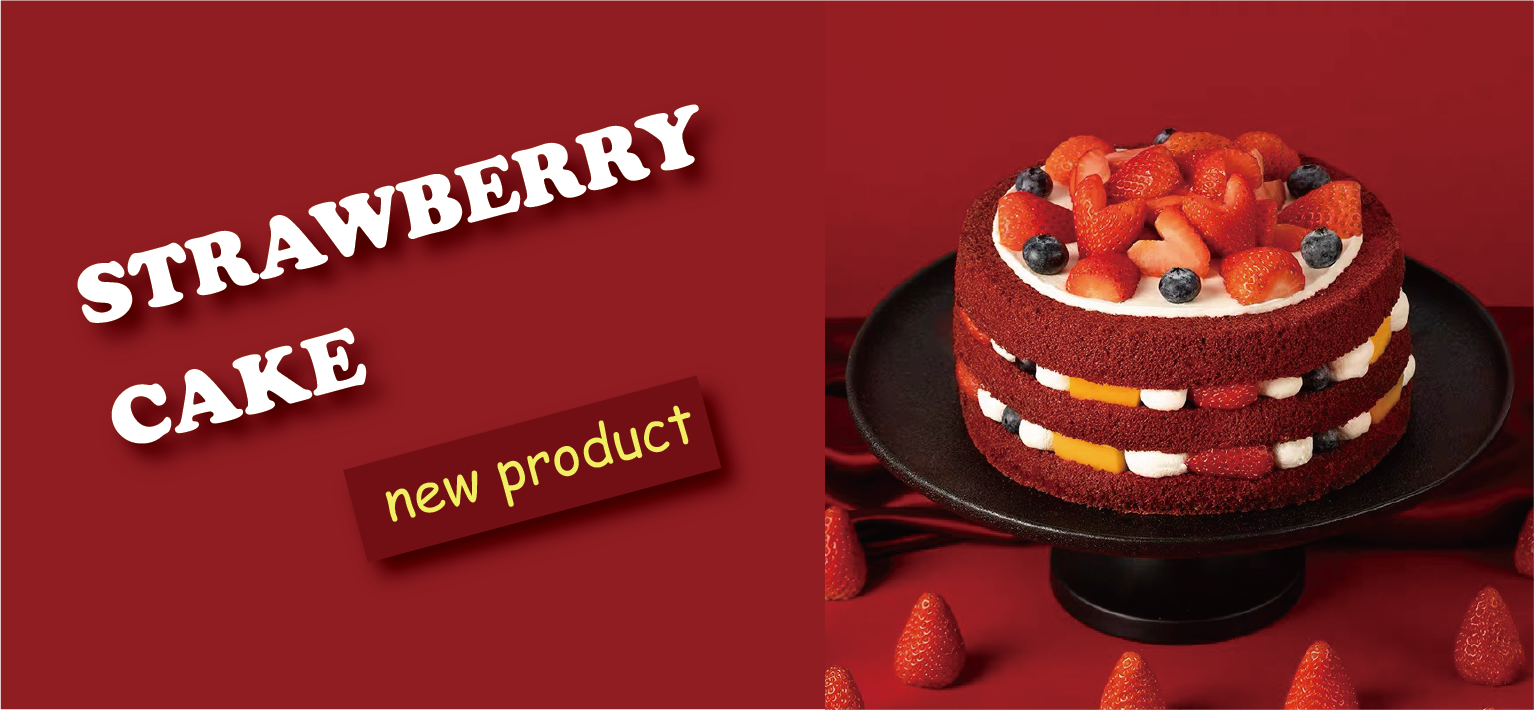
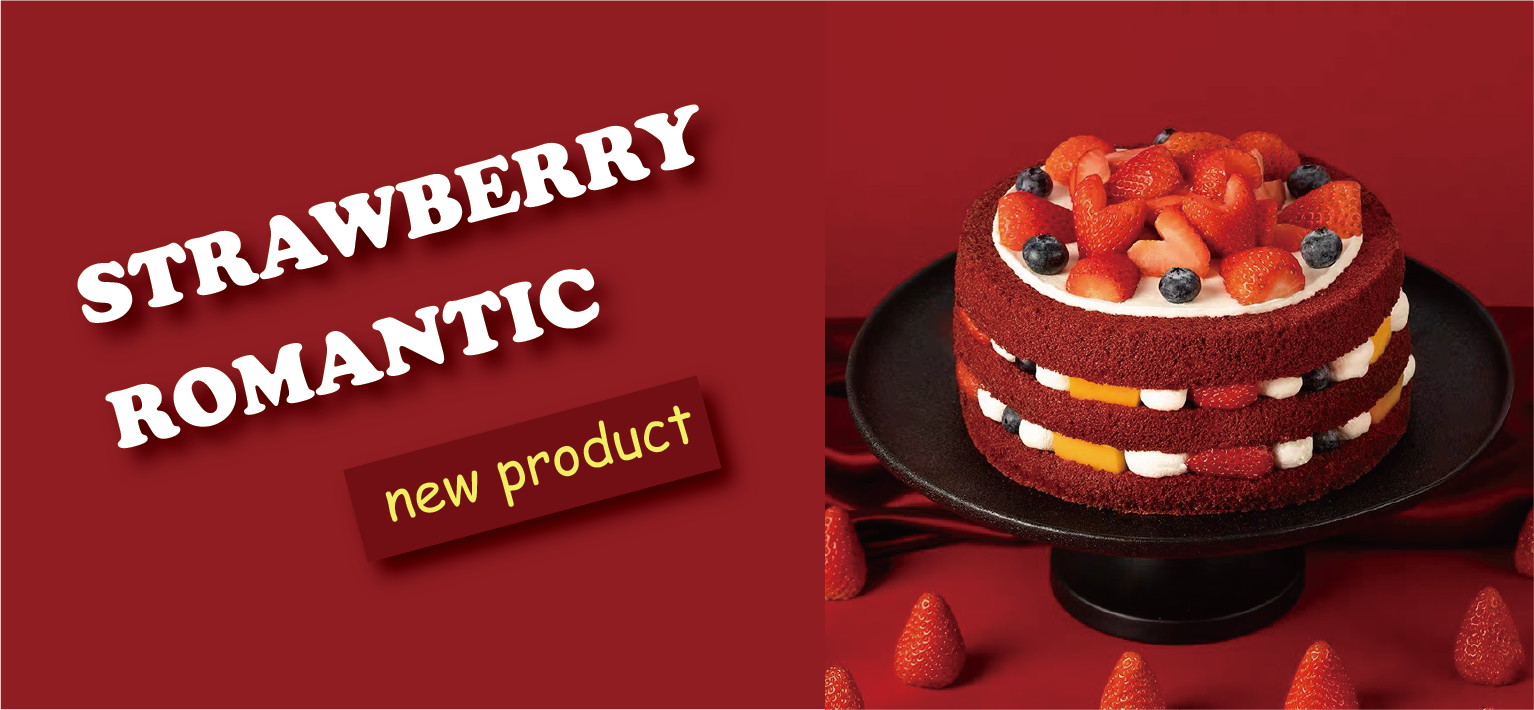
Edit index css and html

Changed region(s): [[0.0613, 0.3718, 0.3983, 0.6507]]

diff --git a/css/index.css b/css/index.css
@@ -1,7 +1,7 @@
-* {
+/* * {
   box-sizing: border-box;
   border: 1px solid pink;
-}
+} */
 
 /* body{
   background-color: #EDD5D2;
@@ -44,76 +44,92 @@ max-width: 100%;
 }
 
 .carousel-control {
-background: rgba(185, 149, 146, 0.28);
-border-radius: 50%;
-color: #fff;
-cursor: pointer;
-display: none;
-font-size: 40px;
-height: 40px;
-line-height: 35px;
-position: absolute;
-top: 50%;
--webkit-transform: translate(0, -50%);
-cursor: pointer;
--ms-transform: translate(0, -50%);
-transform: translate(0, -50%);
-text-align: center;
-width: 40px;
-z-index: 10;
+  background: rgba(185, 149, 146, 0.28);
+  border-radius: 50%;
+
+  color: #fff;
+  cursor: pointer;
+  display: none;
+  font-size: 40px;
+  height: 40px;
+  line-height: 35px;
+  position: absolute;
+  top: 50%;
+  -webkit-transform: translate(0, -50%);
+  cursor: pointer;
+  -ms-transform: translate(0, -50%);
+  transform: translate(0, -50%);
+  text-align: center;
+  width: 40px;
+  z-index: 10;
 }
 
 .carousel-control.prev {
-left: 2%;
+  left: 2%;
 }
 
 .carousel-control.next {
-right: 2%;
+  right: 2%;
 }
 
 .carousel-control:hover {
-background: rgba(185, 149, 146, 0.8);
-color: #aaaaaa;
+  background: rgba(185, 149, 146, 0.8);
+  color: #aaaaaa;
 }
 
-#carousel-1:checked ~ .control-1,
-#carousel-2:checked ~ .control-2,
-#carousel-3:checked ~ .control-3 {
-display: block;
+  #carousel-1:checked ~ .control-1,
+  #carousel-2:checked ~ .control-2,
+  #carousel-3:checked ~ .control-3 {
+  display: block;
 }
 
 .carousel-indicators {
-list-style: none;
-margin: 0;
-padding: 0;
-position: absolute;
-bottom: 2%;
-left: 0;
-right: 0;
-text-align: center;
-z-index: 10;
+  list-style: none;
+  margin: 0;
+  padding: 0;
+  position: absolute;
+  bottom: 2%;
+  left: 0;
+  right: 0;
+  text-align: center;
+  z-index: 10;
 }
 
 .carousel-indicators li {
-display: inline-block;
-margin: 0 5px;
+  display: inline-block;
+  margin: 0 5px;
 }
 
 .carousel-bullet {
-color: #fff;
-cursor: pointer;
-display: block;
-font-size: 35px;
+  color: #fff;
+  cursor: pointer;
+  display: block;
+  font-size: 35px;
 }
 
 .carousel-bullet:hover {
-color: #B99592;
+  color: #B99592;
 }
 
 #carousel-1:checked ~ .control-1 ~ .carousel-indicators li:nth-child(1) .carousel-bullet,
 #carousel-2:checked ~ .control-2 ~ .carousel-indicators li:nth-child(2) .carousel-bullet,
 #carousel-3:checked ~ .control-3 ~ .carousel-indicators li:nth-child(3) .carousel-bullet {
 color: #865B5B;
+}
+
+/* home mobile */
+@media only screen and (max-width:400px){
+  .carousel-control {
+    font-size: 20px;
+    border-radius: 50%;
+    height: 20px;
+    width: 20px;
+    line-height: 15px;
+  }
+
+  .carousel-bullet {
+    font-size: 20px;
+  }
 }
 
 /* news website */
@@ -234,12 +250,12 @@ color: #865B5B;
   }
 
   .company-pic-1-news,.company-pic-2-news{
-    width:100%;
-    text-align: center;
+    justify-content: center;
+    align-items: center;
   }
 
   .company-pic-1-news img,.company-pic-2-news img{
-    width: 90%;
+    width: 100%;
   }
 }
 
@@ -341,11 +357,11 @@ color: #865B5B;
   display: flex;
   justify-content: space-evenly;
   flex-wrap: wrap;
-  margin: 2% 5%;
+  margin: 6% 10%;
 }
 
 .service-cake,.service-drink{
-    width: 35%;
+    width: 40%;
     margin: 1% 5%;
 }
 
@@ -356,6 +372,10 @@ color: #865B5B;
   align-items: center;
   width:30%;
 
+}
+
+.service-text{
+  width: 50%;
 }
 
 .service-icon img{
@@ -372,11 +392,43 @@ color: #865B5B;
 
 
 .service-text h4{
-    color: #B99592;
-  }
+  color: #B99592;
+}
 
 .service-text p{
   color: #B99592;
+  font-weight: bolder;
+}
+
+@media only screen and (max-width:820px){
+  .service-all{
+    margin: 6% 0;
+  }
+}
+
+@media only screen and (max-width:600px){
+  .service-cake,.service-drink{
+      width: 80%;
+      margin: 5% 5%;
+  }
+
+  .service-drink{
+    margin-top: 3rem;
+  }
+}
+
+@media only screen and (max-width:340px){
+  .service-cake,.service-drink{
+    display: flex;
+  }
+
+  .service-icon{
+    width:50%
+  }
+
+  .service-text{
+    width: 80%;
+  }
 }
 
 .footer-left-bottom-text p{

diff --git a/index.html b/index.html
@@ -100,7 +100,7 @@
                 <h3>May 1, 2021</h3>
                 <p>Because of COVID-19 influence, we expanded the range of delivery. Surrey, New West and West-Vancouver can be delivery.</p>
                 <h3>May 2, 2021</h3>
-                <p>Strawberry cake new product launch.</p>
+                <p>Strawberry Romantic new product launch.</p>
             </div>
 
             <div class="company-news-pic">
@@ -155,21 +155,21 @@
                     <img src = "img/cake-icon.png" alt = "cake icon"/>
                   </div>
                   <div class="service-text">
-                      <h4>Cakes</h4>
-                      <p>xxxxx</p>
+                      <p>All of our cake raw materials are made of seasonal fruits
+                        to ensure the freshness of the materials. Not only does it look good,
+                        it also has a good taste.</p>
                   </div>
               </div>
 
               <div class="service-drink">
-                <div class="service-icon">
-                    <img src = "img/drink-icon.png" alt = "drink icon"/>
-                  </div>
-                  <div class="service_text">
-                      <h4>Drinks</h4>
-                      <p>xxxxxx</p>
-                  </div>
-              </div>
-            </div>
+                  <div class="service-icon">
+                      <img src = "img/drink-icon.png" alt = "cake icon"/>
+                    </div>
+                    <div class="service-text">
+                        <p>Our fresh drinks are all specially modulated with healthy materials.
+                          These unique combinations will bring a double impact to vision and taste.</p>
+                    </div>
+                </div>
       </section>
 
       <div class="footer">
